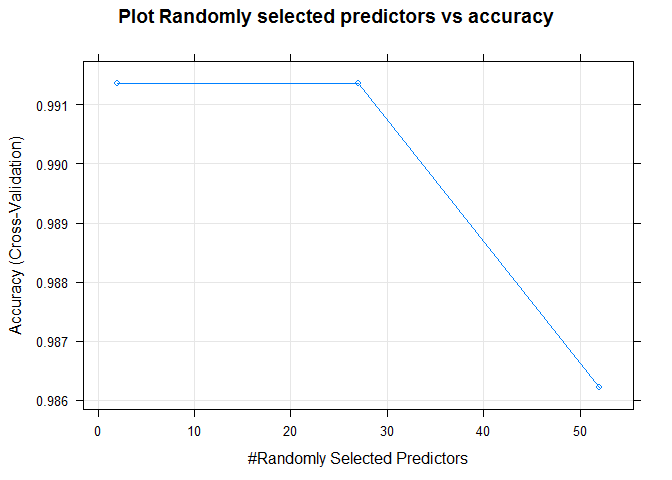
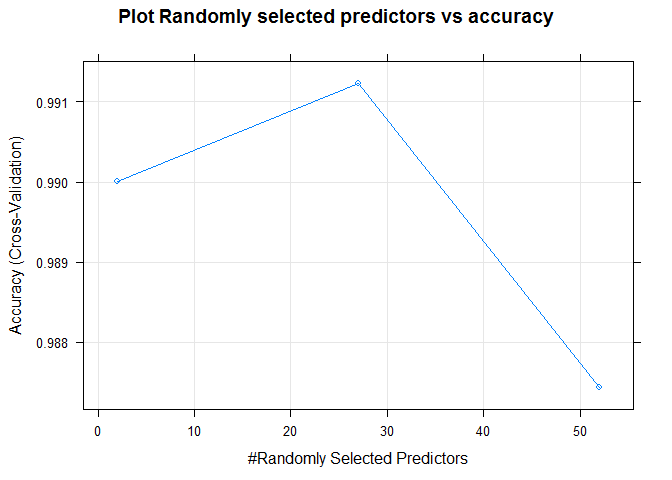
3rd commit

diff --git a/index.html b/index.html
@@ -138,20 +138,19 @@ $(document).ready(function () {
 <div id="feature-selection-for-model-fitting" class="section level2">
 <h2>Feature Selection for Model fitting</h2>
 <p>Let us identify variables with very little variability since these are not good predictors.</p>
-<p>Results of the “nearZeroVar”&quot; function indicate that there are 60 variables that are not good predictors. So , we will remove these from the training data set.</p>
-<p>Continued analysis of the data shows that there are still some computed variables like standard deviation, variance, mean, min, max etc that can be omitted from training the model. These can be computed from the raw data and hence not useful for model training. So, we will remove them.</p>
+<p>Results of the “nearZeroVar”&quot; function indicate that there are 60 variables that are not good predictors. So, we will remove these from the training data set.</p>
+<p>Continued analysis of the data shows that there are 41 features that are computed variables like standard deviation, variance, mean, min, max etc. These can be computed from the raw data and hence not useful for model training. So, we will remove them.</p>
 <p>The resulting data has 59 features. Out of this, the first 6 features describe the row number, the identification of the person who did the exercise, the date/time stamps when the exercise was performed and the sliding window number form which the measurements were extracted. These do not have any bearing on the actual exercise and the measurements generated when performing the exercise. So, we will remove these features also before training the model.</p>
 </div>
 <div id="cross-validation-data-set" class="section level2">
 <h2>Cross validation Data Set</h2>
-<p>For the purposes of cross validating our model, we will randomly select 25% of the training data as a hold out set to perform cross validation.</p>
+<p>For the purposes of cross validating our model, we will randomly select 25% of the training data as a hold out set to perform cross validation. The seed has been set to 12321 to ensure reproducibility.</p>
 <p>There are now 14718 rows to train the model and 4904 rows to perform cross validation.</p>
 </div>
 <div id="model-fitting" class="section level2">
 <h2>Model Fitting</h2>
-<p>Now, we will attempt to fit a random forest model using the training set (after removing unwanted features and after removing the rows for the cross validation). The seed has been set to 12321 to ensure reproducibility.</p>
-<pre class="r"><code>set.seed(12321)
-x &lt;- training_final[,-53]
+<p>Now, we will attempt to fit a “random forest”&quot; model using the training set (after removing unwanted features and after removing the rows for the cross validation). We will use cross validation within the caret package with 5 folds for training the model.</p>
+<pre class="r"><code>x &lt;- training_final[,-53]
 y &lt;- training_final[,53]
 fitControl &lt;- trainControl(method = &quot;cv&quot;,
                            number = 5,
@@ -159,8 +158,8 @@ fitControl &lt;- trainControl(method = &quot;cv&quot;,
 
 fit &lt;- train(x,y, method=&quot;rf&quot;,data=training_final,trControl = fitControl)</code></pre>
 </div>
-<div id="accuracy" class="section level2">
-<h2>Accuracy</h2>
+<div id="model-accuracy" class="section level2">
+<h2>Model Accuracy</h2>
 <p>The <strong>model accuracy</strong> based on the training data is as follows:</p>
 <pre><code>## Random Forest 
 ## 
@@ -174,19 +173,12 @@ fit &lt;- train(x,y, method=&quot;rf&quot;,data=training_final,trControl = fitCo
 ## Resampling results across tuning parameters:
 ## 
 ##   mtry  Accuracy   Kappa    
-##    2    0.9913712  0.9890843
-##   27    0.9913712  0.9890844
-##   52    0.9862072  0.9825520
+##    2    0.9900121  0.9873638
+##   27    0.9912350  0.9889111
+##   52    0.9874301  0.9840982
 ## 
 ## Accuracy was used to select the optimal model using the largest value.
-## The final value used for the model was mtry = 2.</code></pre>
-<p>The <strong>accuracy of each fold</strong> as part of the cross validation within the training process is:</p>
-<pre><code>##    Accuracy     Kappa Resample
-## 1 0.9911685 0.9888293    Fold1
-## 2 0.9925246 0.9905433    Fold2
-## 3 0.9915053 0.9892537    Fold5
-## 4 0.9915082 0.9892575    Fold4
-## 5 0.9901495 0.9875378    Fold3</code></pre>
+## The final value used for the model was mtry = 27.</code></pre>
 </div>
 <div id="out-of-sample-error" class="section level2">
 <h2>Out of sample error</h2>
@@ -195,39 +187,48 @@ fit &lt;- train(x,y, method=&quot;rf&quot;,data=training_final,trControl = fitCo
 ## 
 ##           Reference
 ## Prediction    A    B    C    D    E
-##          A 1394    0    0    0    1
-##          B    3  942    4    0    0
-##          C    0    3  852    0    0
-##          D    0    0   20  784    0
-##          E    0    0    0    0  901
+##          A 1394    0    1    0    0
+##          B   11  935    2    1    0
+##          C    0    7  845    3    0
+##          D    0    0    3  801    0
+##          E    0    0    1    1  899
 ## 
 ## Overall Statistics
-##                                          
-##                Accuracy : 0.9937         
-##                  95% CI : (0.991, 0.9957)
-##     No Information Rate : 0.2849         
-##     P-Value [Acc &gt; NIR] : &lt; 2.2e-16      
-##                                          
-##                   Kappa : 0.992          
-##  Mcnemar's Test P-Value : NA             
+##                                           
+##                Accuracy : 0.9939          
+##                  95% CI : (0.9913, 0.9959)
+##     No Information Rate : 0.2865          
+##     P-Value [Acc &gt; NIR] : &lt; 2.2e-16       
+##                                           
+##                   Kappa : 0.9923          
+##  Mcnemar's Test P-Value : NA              
 ## 
 ## Statistics by Class:
 ## 
 ##                      Class: A Class: B Class: C Class: D Class: E
-## Sensitivity            0.9979   0.9968   0.9726   1.0000   0.9989
-## Specificity            0.9997   0.9982   0.9993   0.9951   1.0000
-## Pos Pred Value         0.9993   0.9926   0.9965   0.9751   1.0000
-## Neg Pred Value         0.9991   0.9992   0.9941   1.0000   0.9998
-## Prevalence             0.2849   0.1927   0.1786   0.1599   0.1839
-## Detection Rate         0.2843   0.1921   0.1737   0.1599   0.1837
+## Sensitivity            0.9922   0.9926   0.9918   0.9938   1.0000
+## Specificity            0.9997   0.9965   0.9975   0.9993   0.9995
+## Pos Pred Value         0.9993   0.9852   0.9883   0.9963   0.9978
+## Neg Pred Value         0.9969   0.9982   0.9983   0.9988   1.0000
+## Prevalence             0.2865   0.1921   0.1737   0.1644   0.1833
+## Detection Rate         0.2843   0.1907   0.1723   0.1633   0.1833
 ## Detection Prevalence   0.2845   0.1935   0.1743   0.1639   0.1837
-## Balanced Accuracy      0.9988   0.9975   0.9859   0.9976   0.9994</code></pre>
-<p>The <strong>Out of sample error rate</strong> when predicting on the cross validation data set is 0.0063214</p>
+## Balanced Accuracy      0.9959   0.9945   0.9947   0.9965   0.9998</code></pre>
+<p>The expected <strong>Out of sample error rate</strong> is 0.0061175</p>
 </div>
-<div id="plots" class="section level2">
-<h2>Plots</h2>
[2 lines of base64/hex data omitted]
+<div id="predictions" class="section level2">
+<h2>Predictions</h2>
+<p>The model is now ready to predict</p>
+<pre><code>##  [1] B A B A A E D B A A B C B A E E A B B B
+## Levels: A B C D E</code></pre>
+</div>
+<div id="appendix" class="section level2">
+<h2>Appendix</h2>
+<div id="plots" class="section level3">
+<h3>Plots</h3>
[2 lines of base64/hex data omitted]
+</div>
 </div>
 
 

diff --git a/index.md b/index.md
@@ -25,34 +25,36 @@ Initial analysis of the data shows that there are 67 features in the training se
 Let us identify variables with very little variability since these are not good predictors.
 
 
-Results of the "nearZeroVar"" function indicate that there are 60 variables that are not good predictors. So , we will remove these from the training data set.
+Results of the "nearZeroVar"" function indicate that there are 60 variables that are not good predictors. So, we will remove these from the training data set.
 
 
 
-Continued analysis of the data shows that there are still some computed variables like standard deviation, variance, mean, min, max etc that can be omitted from training the model. These can be computed from the raw data and hence not useful for model training. So, we will remove them.
 
 
 
+
+Continued analysis of the data shows that there are 41 features that are computed variables like standard deviation, variance, mean, min, max etc. These can be computed from the raw data and hence not useful for model training. So, we will remove them.
 
 The resulting data has 59 features. Out of this, the first 6 features describe the row number, the identification of the person who did the exercise, the date/time stamps when the exercise was performed and the sliding window number form which the measurements were extracted. These do not have any bearing on the actual exercise and the measurements generated when performing the exercise. So, we will remove these features also before training the model.
 
 
 
+
 ## Cross validation Data Set
-For the purposes of cross validating our model, we will randomly select 25% of the training data as a hold out set to perform cross validation.
+For the purposes of cross validating our model, we will randomly select 25% of the training data as a hold out set to perform cross validation. The seed has been set to 12321 to ensure reproducibility.
+
 
 
 
 There are now 14718 rows to train the model and 4904 rows to perform cross validation.
 
 ## Model Fitting
-Now, we will attempt to fit a random forest model using the training set (after removing unwanted features and after removing the rows for the cross validation). The seed has been set to 12321 to ensure reproducibility.
+Now, we will attempt to fit a "random forest"" model using the training set (after removing unwanted features and after removing the rows for the cross validation). We will use cross validation within the caret package with 5 folds for training the model.
 
 
 
 
 ```r
-set.seed(12321)
 x <- training_final[,-53]
 y <- training_final[,53]
 fitControl <- trainControl(method = "cv",
@@ -64,7 +66,7 @@ fit <- train(x,y, method="rf",data=training_final,trControl = fitControl)
 
 
 
-## Accuracy
+## Model Accuracy
 
 The **model accuracy** based on the training data is as follows:
 
@@ -81,22 +83,12 @@ The **model accuracy** based on the training data is as follows:
 ## Resampling results across tuning parameters:
 ## 
 ##   mtry  Accuracy   Kappa    
-##    2    0.9913712  0.9890843
-##   27    0.9913712  0.9890844
-##   52    0.9862072  0.9825520
+##    2    0.9900121  0.9873638
+##   27    0.9912350  0.9889111
+##   52    0.9874301  0.9840982
 ## 
 ## Accuracy was used to select the optimal model using the largest value.
-## The final value used for the model was mtry = 2.
-```
-The **accuracy of each fold** as part of the cross validation within the training process is:
-
-```
-##    Accuracy     Kappa Resample
-## 1 0.9911685 0.9888293    Fold1
-## 2 0.9925246 0.9905433    Fold2
-## 3 0.9915053 0.9892537    Fold5
-## 4 0.9915082 0.9892575    Fold4
-## 5 0.9901495 0.9875378    Fold3
+## The final value used for the model was mtry = 27.
 ```
 
 ## Out of sample error
@@ -108,37 +100,50 @@ The confusion matrix when predicting against cross validation set is
 ## 
 ##           Reference
 ## Prediction    A    B    C    D    E
-##          A 1394    0    0    0    1
-##          B    3  942    4    0    0
-##          C    0    3  852    0    0
-##          D    0    0   20  784    0
-##          E    0    0    0    0  901
+##          A 1394    0    1    0    0
+##          B   11  935    2    1    0
+##          C    0    7  845    3    0
+##          D    0    0    3  801    0
+##          E    0    0    1    1  899
 ## 
 ## Overall Statistics
-##                                          
-##                Accuracy : 0.9937         
-##                  95% CI : (0.991, 0.9957)
-##     No Information Rate : 0.2849         
-##     P-Value [Acc > NIR] : < 2.2e-16      
-##                                          
-##                   Kappa : 0.992          
-##  Mcnemar's Test P-Value : NA             
+##                                           
+##                Accuracy : 0.9939          
+##                  95% CI : (0.9913, 0.9959)
+##     No Information Rate : 0.2865          
+##     P-Value [Acc > NIR] : < 2.2e-16       
+##                                           
+##                   Kappa : 0.9923          
+##  Mcnemar's Test P-Value : NA              
 ## 
 ## Statistics by Class:
 ## 
 ##                      Class: A Class: B Class: C Class: D Class: E
-## Sensitivity            0.9979   0.9968   0.9726   1.0000   0.9989
-## Specificity            0.9997   0.9982   0.9993   0.9951   1.0000
-## Pos Pred Value         0.9993   0.9926   0.9965   0.9751   1.0000
-## Neg Pred Value         0.9991   0.9992   0.9941   1.0000   0.9998
-## Prevalence             0.2849   0.1927   0.1786   0.1599   0.1839
-## Detection Rate         0.2843   0.1921   0.1737   0.1599   0.1837
+## Sensitivity            0.9922   0.9926   0.9918   0.9938   1.0000
+## Specificity            0.9997   0.9965   0.9975   0.9993   0.9995
+## Pos Pred Value         0.9993   0.9852   0.9883   0.9963   0.9978
+## Neg Pred Value         0.9969   0.9982   0.9983   0.9988   1.0000
+## Prevalence             0.2865   0.1921   0.1737   0.1644   0.1833
+## Detection Rate         0.2843   0.1907   0.1723   0.1633   0.1833
 ## Detection Prevalence   0.2845   0.1935   0.1743   0.1639   0.1837
-## Balanced Accuracy      0.9988   0.9975   0.9859   0.9976   0.9994
+## Balanced Accuracy      0.9959   0.9945   0.9947   0.9965   0.9998
 ```
-The **Out of sample error rate** when predicting on the cross validation data set is 0.0063214
+The expected **Out of sample error rate** is 0.0061175  
 
-## Plots
+## Predictions
+
+The model is now ready to predict
+
+
+```
+##  [1] B A B A A E D B A A B C B A E E A B B B
+## Levels: A B C D E
+```
+
+
+## Appendix
+
+### Plots
 
 The plot of randomly selected predictors vs accuracy (using cross validation) is provided below
 ![](index_files/figure-html/unnamed-chunk-13-1.png)<!-- -->
